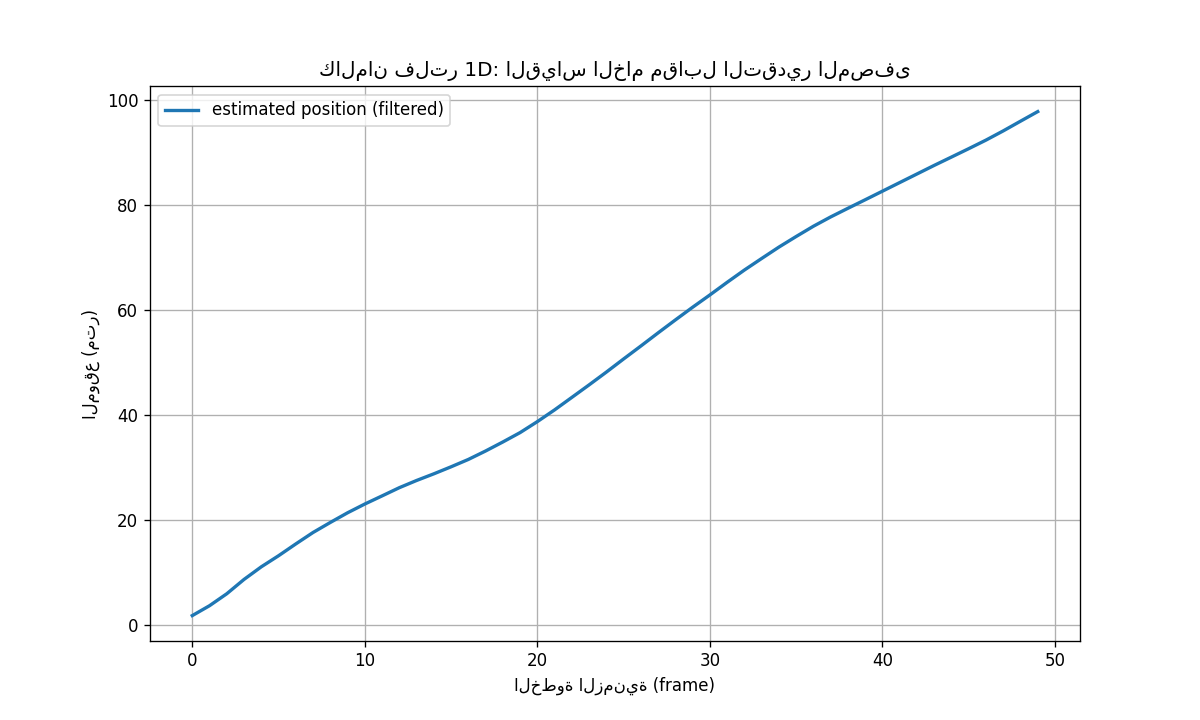
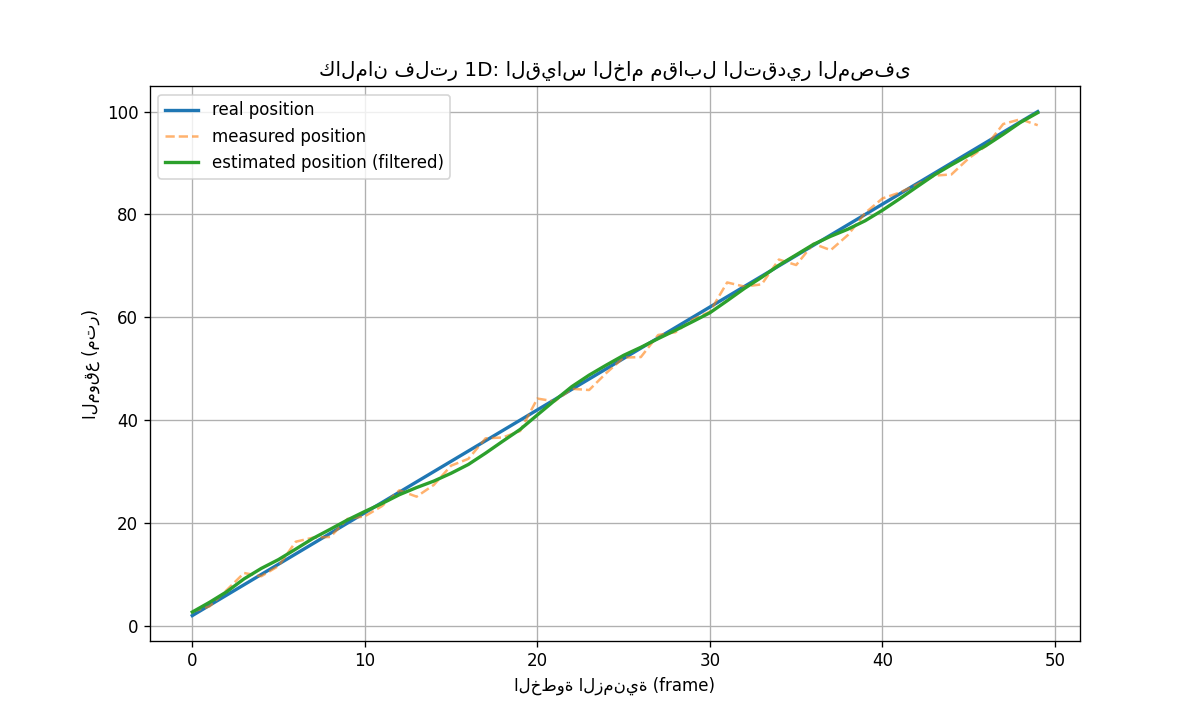
kalman 2

diff --git a/kalman_filter/03_filterpy_2d.py b/kalman_filter/03_filterpy_2d.py
@@ -1,0 +1,93 @@
+"""
+03_filterpy_2d.py
+توسيع الفكرة لبعدين (x, y) بدل بعد واحد — زي موقع الدرون الحقيقي بالصورة.
+الحالة صارت 4 عناصر: [x, y, vx, vy]
+القياس بقى عنصرين بس: [x, y]  (متل ما YOLO بيديك مركز bounding box، مش سرعته)
+"""
+
+import numpy as np
+import matplotlib.pyplot as plt
+from filterpy.kalman import KalmanFilter
+
+# ---------- 1. توليد مسار مصطنع ثنائي الأبعاد ----------
+
+np.random.seed(42)
+
+n_steps = 50
+dt = 1.0
+
+# نفترض جسم ماشي بخط مستقيم مائل: سرعة ثابتة بكل من x و y
+vx_true = 2.0
+vy_true = 1.0
+
+true_x, true_y = 0.0, 0.0
+true_positions = []      # هون كل عنصر رح يكون زوج (x, y)
+measured_positions = []
+
+for i in range(n_steps):
+    true_x += vx_true * dt
+    true_y += vy_true * dt
+    true_positions.append([true_x, true_y])
+
+    # ضجيج منفصل لكل محور (x وy كل واحد فيهم بيهتز لحاله)
+    noise_x = np.random.normal(0, 1.5)
+    noise_y = np.random.normal(0, 1.0)   # خليت ضجيج y أقل، كمثال على اختلاف دقة المحورين
+    measured_positions.append([true_x + noise_x, true_y + noise_y])
+
+true_positions = np.array(true_positions)
+measured_positions = np.array(measured_positions)
+
+# ---------- 2. إعداد كالمان فلتر لحالة 4 أبعاد ----------
+
+# dim_x=4 → الحالة: [x, y, vx, vy]
+# dim_z=2 → القياس: [x, y] بس
+kf = KalmanFilter(dim_x=4, dim_z=2)
+
+kf.x = np.array([0.0, 0.0, 0.0, 0.0])   # [x, y, vx, vy] ابتدائي
+
+# F: نموذج الحركة — كل محور (x,y) بيتحدث بنفس منطق البعد الواحد، بس الاثنين سوا
+kf.F = np.array([[1, 0, dt, 0],
+                  [0, 1, 0, dt],
+                  [0, 0, 1,  0],
+                  [0, 0, 0,  1]])
+
+# H: من بين (x, y, vx, vy)، خد بس (x, y) للمقارنة مع القياس
+kf.H = np.array([[1, 0, 0, 0],
+                  [0, 1, 0, 0]])
+
+kf.P *= 100.0   # عدم يقين ابتدائي كبير لكل الحالة الأربعة
+
+# Q: ثقتنا بنموذج الحركة لكل متغير (x, y, vx, vy) — صغيرة لأننا واثقين بافتراض السرعة الثابتة
+kf.Q = np.eye(4) * 0.05   # np.eye(4) = مصفوفة وحدة 4x4، أسهل من كتابتها يدوياً
+
+# R: ثقتنا بدقة القياس على كل محور — لاحظ اخترنا قيم مختلفة (x أقل دقة من y)
+kf.R = np.array([[2.0, 0.0],
+                  [0.0, 1.0]])
+
+# ---------- 3. حلقة Predict + Update ----------
+
+estimated_positions = []
+
+for z in measured_positions:
+    kf.predict()
+    kf.update(z)            # z هلق زوج [x, y]، مش رقم واحد متل قبل
+    estimated_positions.append([kf.x[0], kf.x[1]])   # ناخد بس x, y (نتجاهل vx, vy بالرسم)
+
+estimated_positions = np.array(estimated_positions)
+
+# ---------- 4. الرسم — هون منرسم المسار بالفضاء (x,y) مش بالزمن ----------
+
+plt.figure(figsize=(8, 8))
+plt.plot(true_positions[:, 0], true_positions[:, 1], label="المسار الحقيقي", color="g", linewidth=2)
+plt.scatter(measured_positions[:, 0], measured_positions[:, 1], label="القياسات (مهتزة)", color="b", alpha=0.4, s=20)
+plt.plot(estimated_positions[:, 0], estimated_positions[:, 1], label="التقدير المصفى", color="r", linewidth=2)
+plt.xlabel("x")
+plt.ylabel("y")
+plt.title("كالمان فلتر 2D — المسار بفضاء (x, y)")
+plt.legend()
+plt.grid(True)
+plt.axis("equal")   # عشان المحورين ياخدوا نفس المقياس، ما يصير تشويه بصري بالشكل
+plt.show()
+
+print("آخر سرعة مقدّرة vx:", round(kf.x[2], 3), "(الحقيقية:", vx_true, ")")
+print("آخر سرعة مقدّرة vy:", round(kf.x[3], 3), "(الحقيقية:", vy_true, ")")

diff --git a/kalman_filter/test.py b/kalman_filter/test.py
@@ -1,0 +1,54 @@
+from filterpy.kalman import KalmanFilter
+import matplotlib.pyplot as plt
+import numpy as np
+
+np.random.seed(42)
+
+steps = 50
+dt = 1.0
+ideal_velocity = 2.0
+
+ideal_positions = []
+measured_positions = []
+
+ideal_x = 0.0
+
+for i in range(steps):
+    ideal_x += ideal_velocity * dt
+    ideal_positions.append(ideal_x)
+
+    noise = np.random.normal(0,1.5)
+    measured_positions.append(ideal_x + noise)
+
+measured_positions = np.array(measured_positions)
+ideal_positions = np.array(ideal_positions)
+
+kf = KalmanFilter(dim_x=2, dim_z=1)
+kf.x = np.array([0.0, 0.0])
+
+kf.F = np.array([[1.0, dt],
+                 [0.0, 1.0]])
+
+kf.H = np.array([[1.0, 0.0]])
+
+kf.P *= 100.0
+
+kf.Q = np.array([[0.05,0.0],[0.0,0.05]])
+kf.R = np.array([[2.0]])
+estimated_positions = []
+estimated_velocities = []
+for z in measured_positions:
+    kf.predict()
+    kf.update(z)
+    estimated_positions.append(kf.x[0])
+    estimated_velocities.append(kf.x[1])
+
+estimated_positions = np.array(estimated_positions)
+estimated_velocities = np.array(estimated_velocities)
+
+plt.figure(figsize=(10,6))
+plt.plot(ideal_positions,label='ideal position',color='g')
+plt.plot(measured_positions,label='measured position',color='b')
+plt.plot(estimated_positions,label='estimated position',color='r')
+plt.legend()
+plt.show()

diff --git a/kalman_filter/01_intuition_1d.py b/kalman_filter/01_intuition_1d.py
@@ -76,8 +76,8 @@ estimated_positions = np.array(estimated_positions)
 # ---------- 3. الرسم البياني — قارن بعينك ----------
 
 plt.figure(figsize=(10, 6))
-#plt.plot(true_positions, label="real position", linewidth=2)
-#plt.plot(measured_positions, label="measured position", linestyle="--", alpha=0.6)
+plt.plot(true_positions, label="real position", linewidth=2)
+plt.plot(measured_positions, label="measured position", linestyle="--", alpha=0.6)
 plt.plot(estimated_positions, label="estimated position (filtered)", linewidth=2)
 plt.xlabel("الخطوة الزمنية (frame)")
 plt.ylabel("الموقع (متر)")
